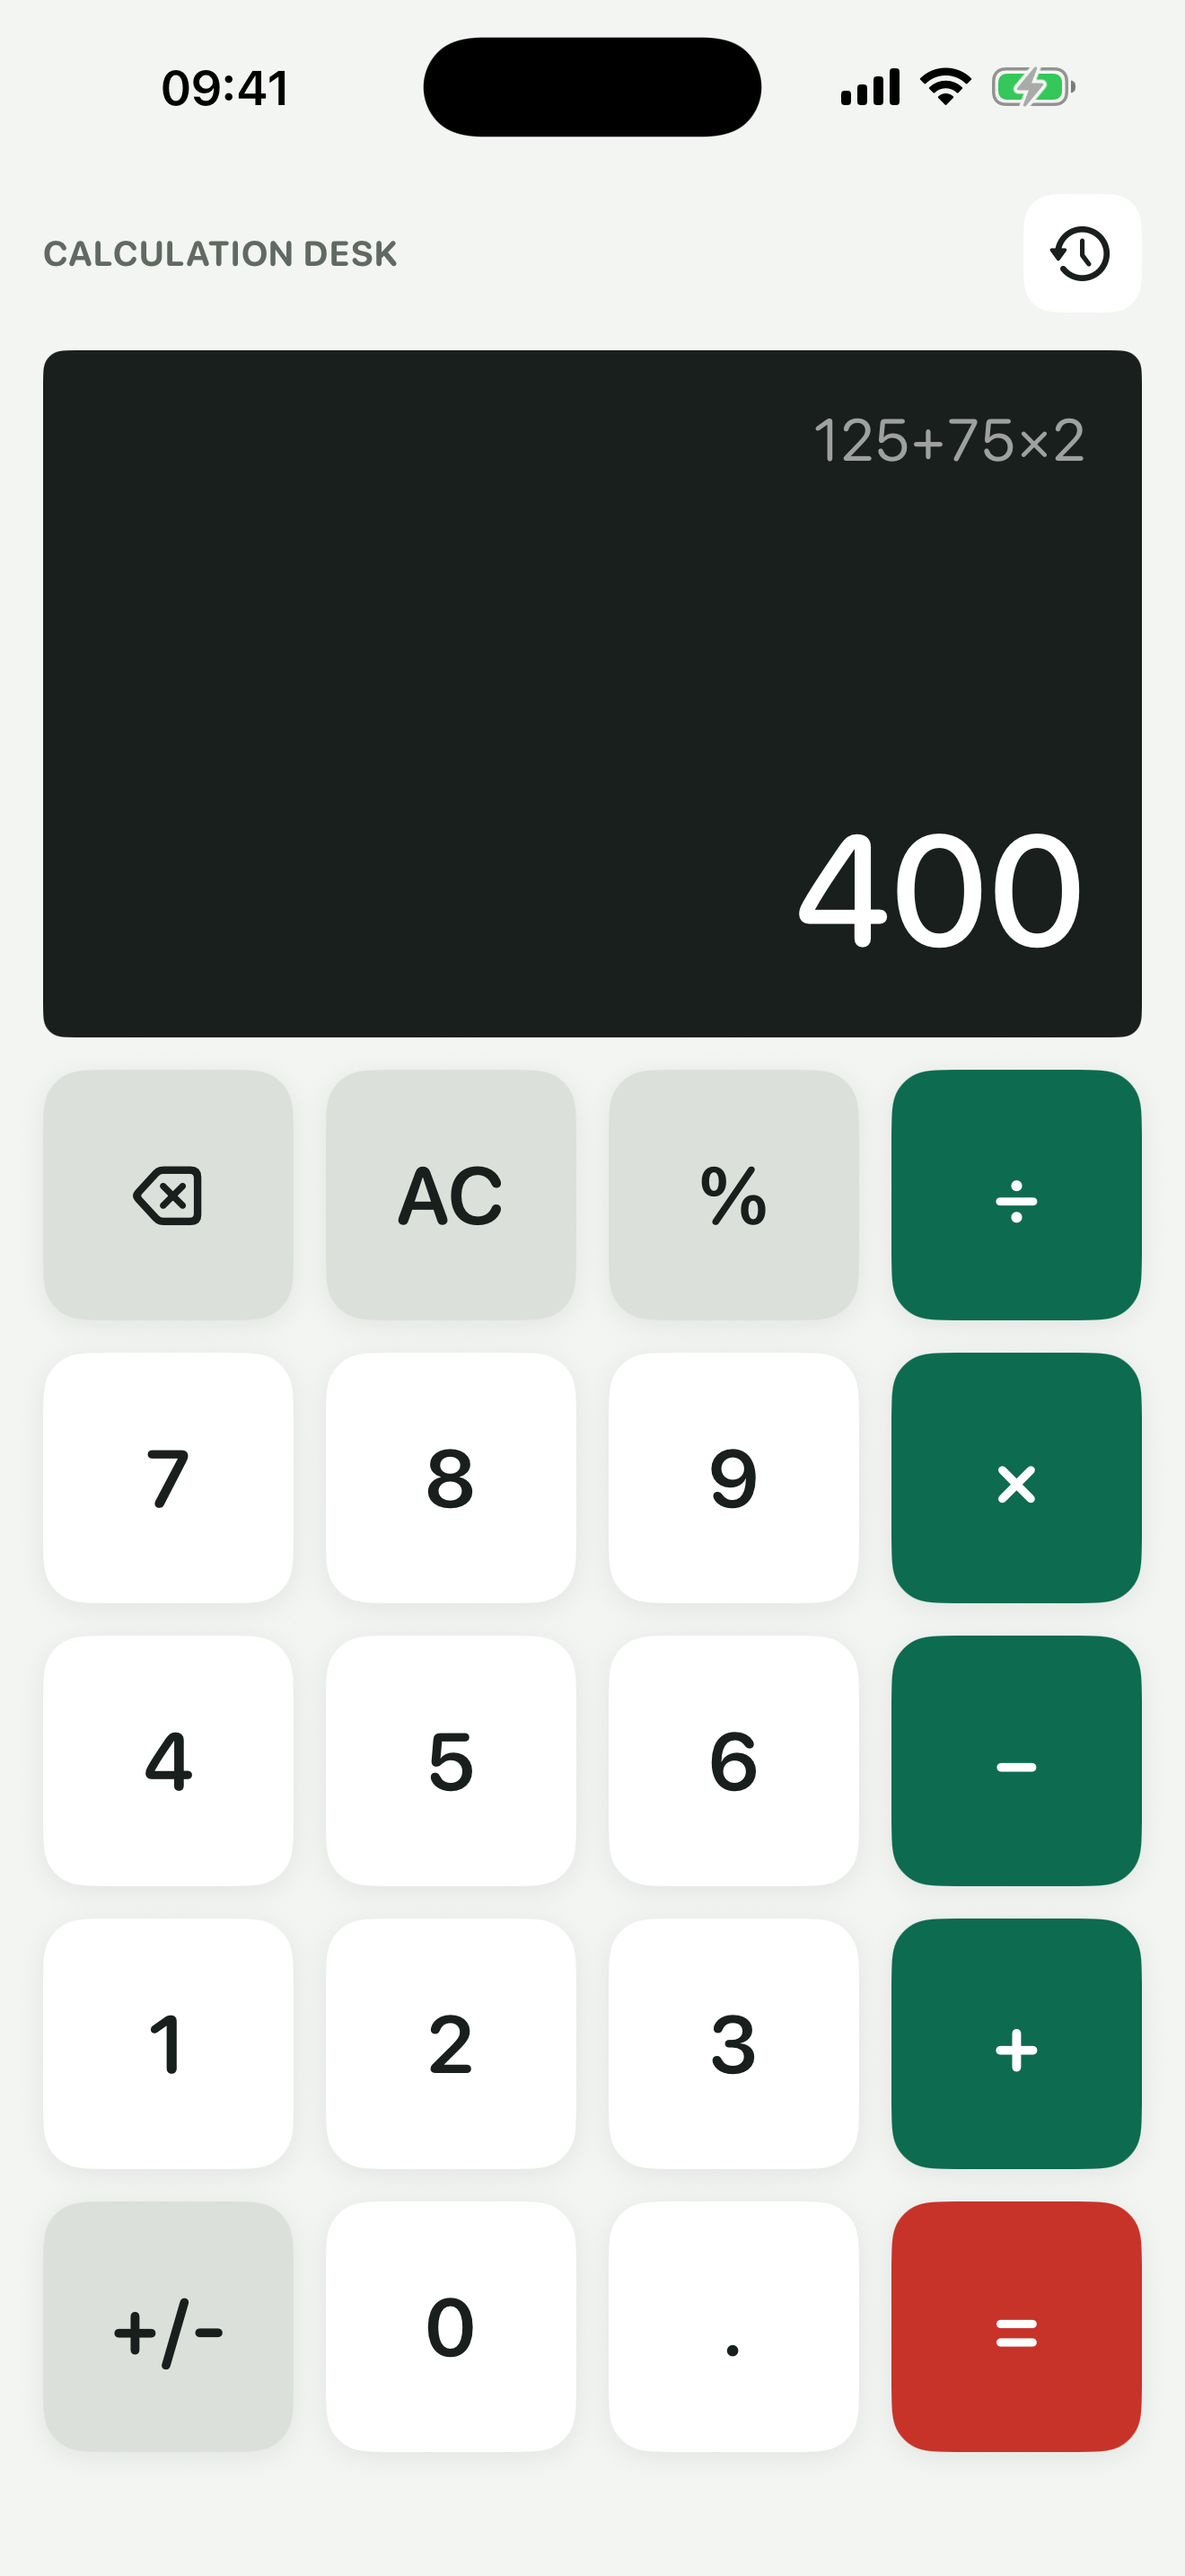
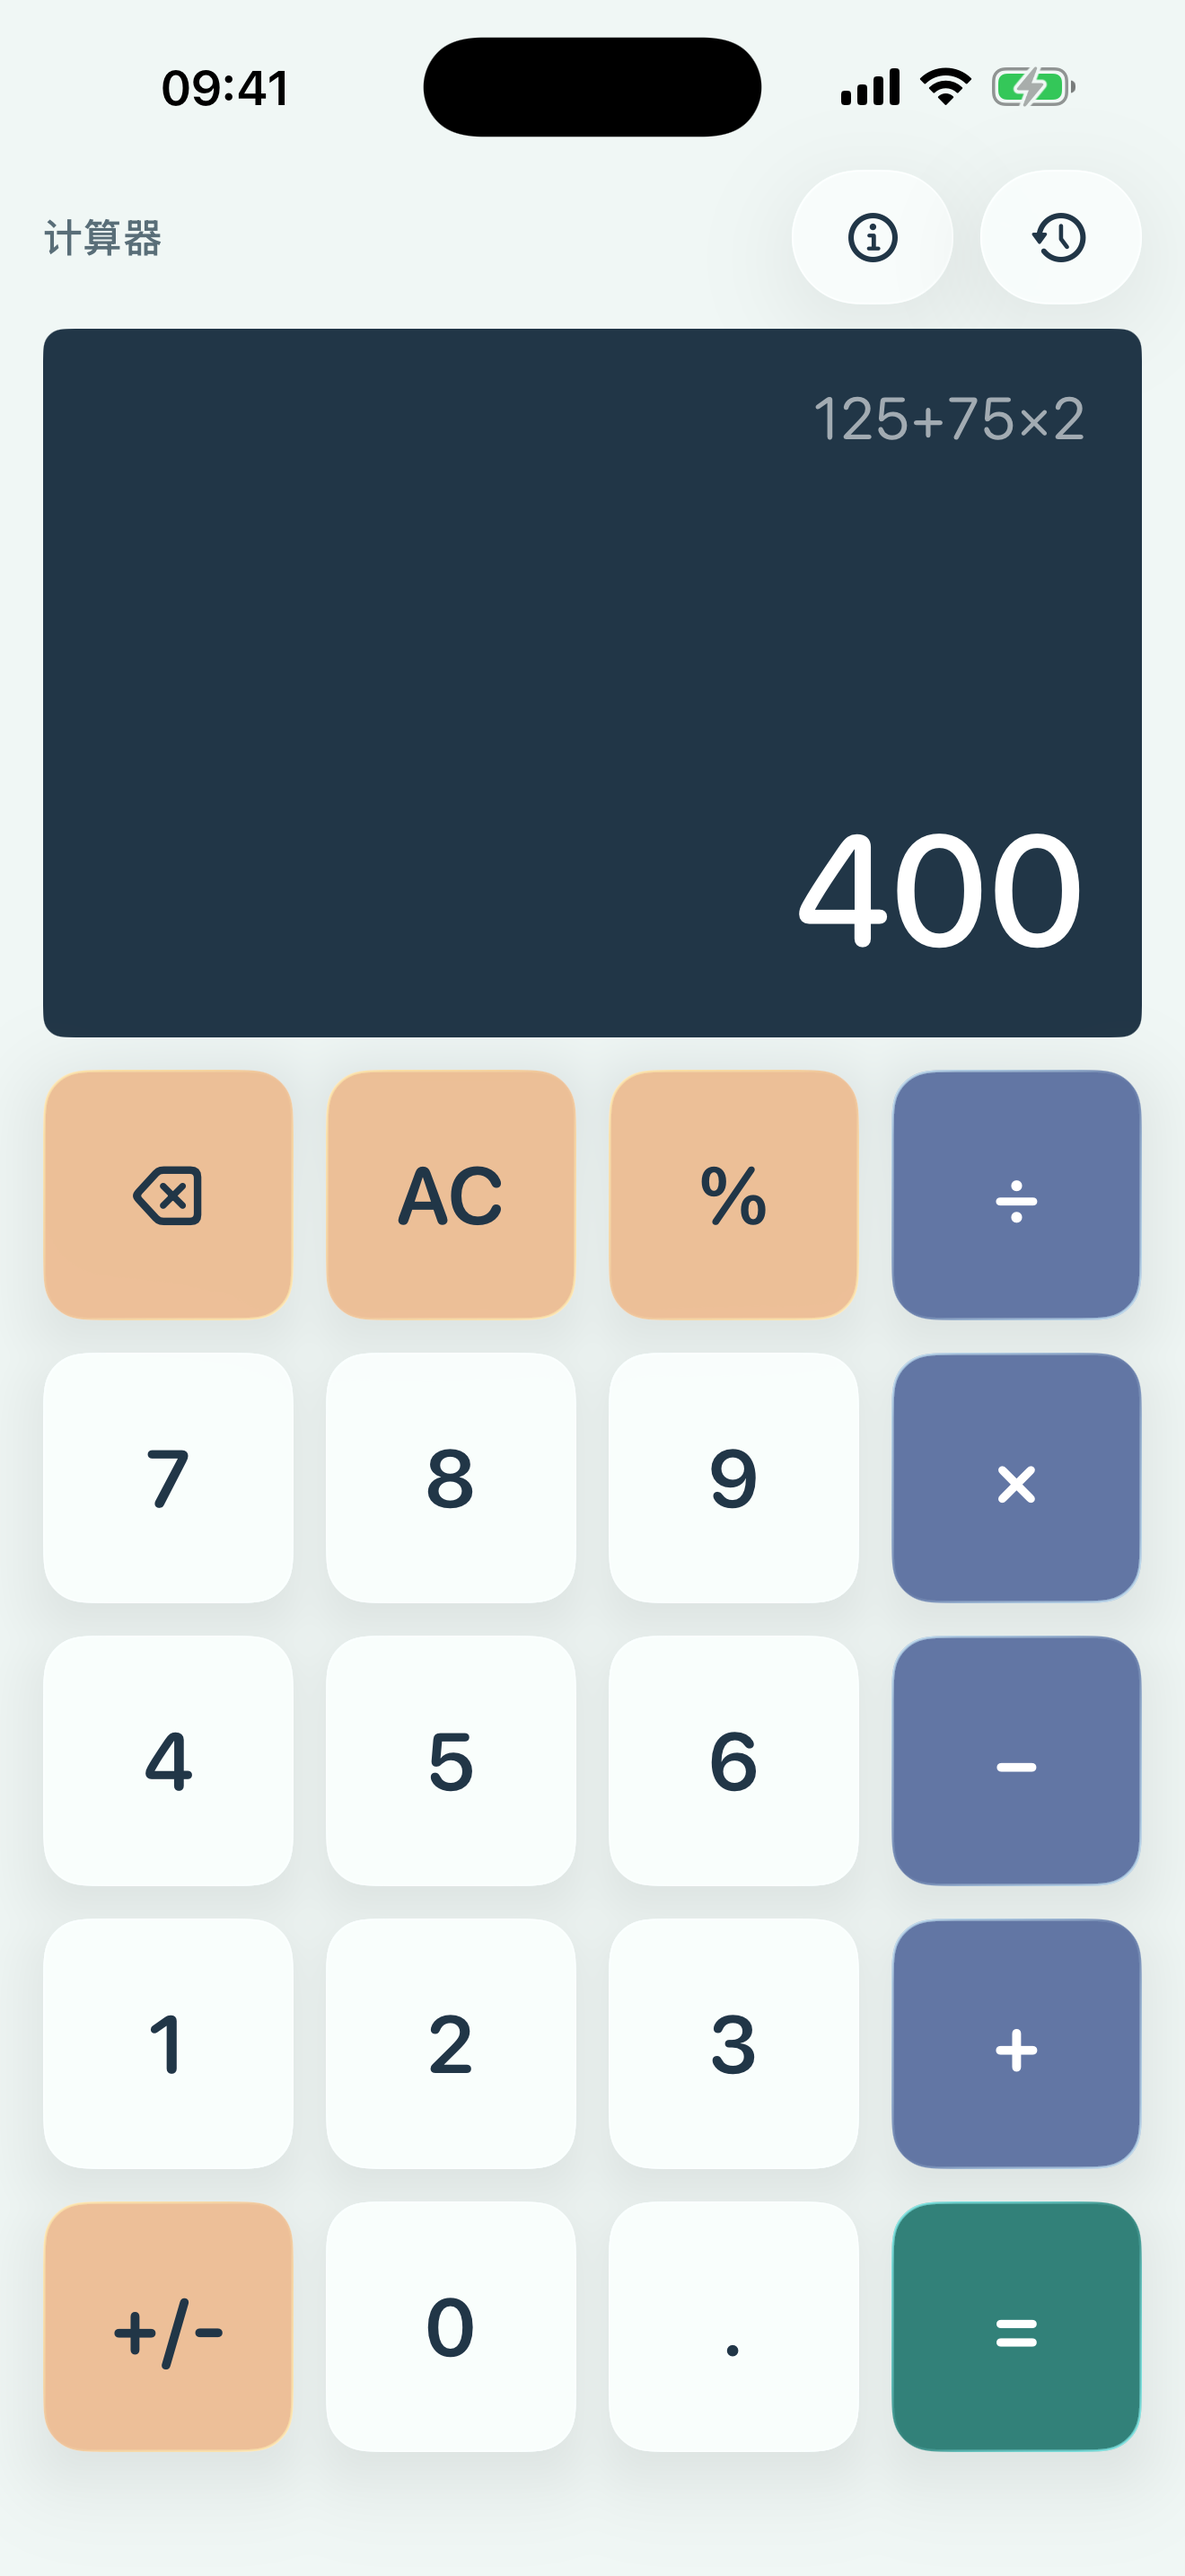
fix: 提审问题

diff --git a/CalculatorProTests/CalculatorTests.swift b/CalculatorProTests/CalculatorTests.swift
@@ -279,13 +279,17 @@ class CalculatorTests: XCTestCase {
         XCTAssertEqual(viewModel.result, "-9", "先切换正负号再输入9应该是 -9")
     }
     
-    func testMinusAsNegativeSign() {
-        // 测试: 初始状态按减号输入负数 -9
-        tap(.substract)  // 初始状态按减号作为负号
+    func testInitialMinusStartsSubtractionFromZero() {
+        tap(.substract)
+
+        XCTAssertEqual(viewModel.result, "0")
+        XCTAssertEqual(viewModel.currentExpression, "0−")
+
         tapNumber("9")
-        
-        print("【测试】初始按减号 → 9 = \(viewModel.result)")
-        XCTAssertEqual(viewModel.result, "-9", "初始按减号输入9应该是 -9")
+        tap(.equal)
+
+        XCTAssertEqual(viewModel.result, "-9")
+        XCTAssertEqual(viewModel.previousResult, "0−9")
     }
     
     func testNegativeMultiplyByNegative() {
@@ -305,22 +309,19 @@ class CalculatorTests: XCTestCase {
         XCTAssertEqual(viewModel.result, "54", "-9 × -6 应该等于 54")
     }
     
-    func testNegativeMultiplyByNegativeUsingMinusSign() {
-        // 测试: -9 × -6 = 54 (使用减号作为负号方式)
-        // 输入 -9
-        tapNumber("9")
-        tap(.substract)  // 作为运算符，结果应该保留
-        viewModel.reset()
-        // 重新用正确方式：先输入 9，切换正负
-        tapNumber("9")
-        viewModel.set(operation: .plusMinus)  // -9
-        tap(.multiply)  // 乘号，result 重置为 0
-        tap(.substract)  // 减号作为负号（因为 resultReady = true）
-        tapNumber("6")  // -6
+    func testMinusReplacesPendingMultiplyOperator() {
+        tapNumber("6")
+        tap(.multiply)
+        tap(.substract)
+
+        XCTAssertEqual(viewModel.result, "6")
+        XCTAssertEqual(viewModel.currentExpression, "6−")
+
+        tapNumber("2")
         tap(.equal)
-        
-        print("【测试】-9 × -6 (使用减号作为负号) = \(viewModel.result)")
-        XCTAssertEqual(viewModel.result, "54", "-9 × -6 应该等于 54")
+
+        XCTAssertEqual(viewModel.result, "4")
+        XCTAssertEqual(viewModel.previousResult, "6−2")
     }
     
     func testTogglePlusMinus() {
@@ -658,7 +659,7 @@ class CalculatorTests: XCTestCase {
     func testRevertNegativeSecondOperandKeepsExpressionAndValueConsistent() {
         tapNumber("5")
         tap(.plus)
-        tap(.substract)
+        tap(.plusMinus)
         tapNumber("2")
         tap(.revert)
 

diff --git a/CalculatorPro/Features/Main/ViewModels/ButtonHandlers.swift b/CalculatorPro/Features/Main/ViewModels/ButtonHandlers.swift
@@ -276,35 +276,11 @@ struct OperatorHandler: ButtonHandler {
     }
 }
 
-// MARK: - 减号处理器（区分负号和减运算符）
+// MARK: - 减号处理器
 
 struct SubtractHandler: ButtonHandler {
     func handle(state: inout CalculatorState) -> CalculatorUpdate? {
-        // 判断是作为负号还是减运算符
-        let canBeNegativeSign =
-            (state.pendingOp == .unknown && state.isEmptyOrZero) ||
-            (state.pendingOp != .unknown && state.isReadyForInput)
-
-        if canBeNegativeSign {
-            // 作为负号处理
-            let wasReady = state.isReadyForInput
-            state.display = "-0"
-            state.isReadyForInput = false
-
-            // 更新表达式（如果是刚输入运算符后的负号）
-            if wasReady && !state.expression.isEmpty {
-                state.expression += state.display
-            }
-
-            return CalculatorUpdate(
-                display: state.display,
-                expression: state.expression,
-                isReadyForInput: state.isReadyForInput
-            )
-        } else {
-            // 作为减运算符处理
-            return OperatorHandler(operation: .minus).handle(state: &state)
-        }
+        OperatorHandler(operation: .minus).handle(state: &state)
     }
 }
 
